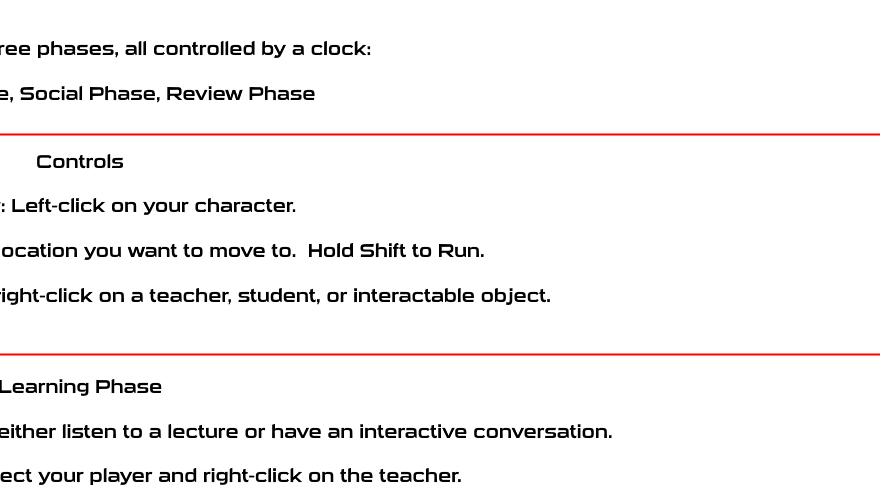
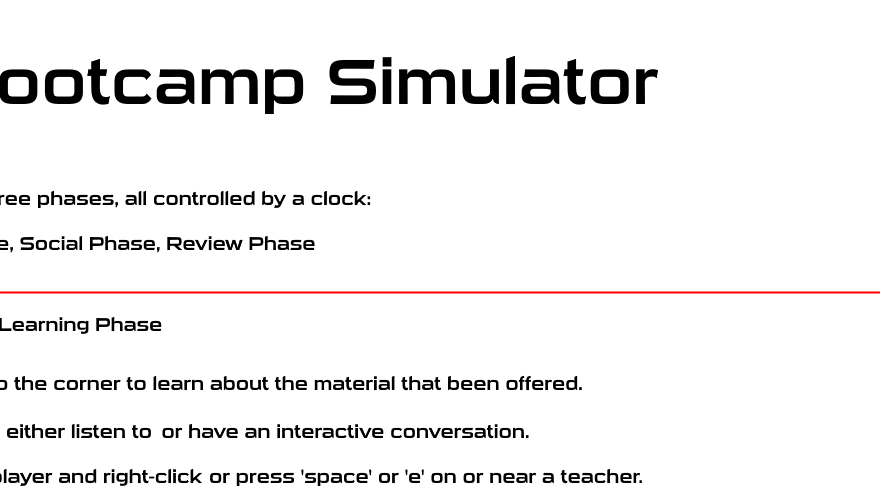
added new instructions

diff --git a/js/obstruction.js b/js/obstruction.js
@@ -7,6 +7,11 @@ var obstruction =
 			],
 		},
 		{
+			"mapObstructedTerrain":[
+
+			],
+		},
+		{
 		"mapObstructedTerrain":[
 			[0,0,16697], [52,107,268], [53,109,264], [54,111,262], [55,112,261], [56,112,125], [56,263,110], [57,112,122], [57,265,108], [58,112,121], [58,267,106], [59,112,120], [59,267,106], [60,60,43], [60,112,120], [60,267,106], [61,60,43], [61,112,120], [61,267,106], [62,60,43], [62,112,120], [62,267,106], [63,60,43], [63,112,120], [63,267,106], [64,60,43], [64,112,120], [64,267,106], [65,60,43], [65,112,120], [65,267,106], [66,60,43], [66,112,120], [66,267,106], [67,60,43], [67,112,127], [67,262,111], [68,60,43], [68,112,127], [68,262,111], [69,112,127], [69,262,111], [70,112,127], [70,262,111], [71,60,43], [71,112,127], [71,262,111], [72,60,43], [72,112,127], [72,262,111], [73,60,43], [73,112,127], [73,262,111], [74,60,43], [74,112,120], [74,262,111], [75,60,43], [75,112,120], [75,267,106], [76,60,43], [76,112,120], [76,267,106], [77,112,120], [77,267,106], [78,112,120], [78,249,6], [78,267,106], [79,112,120], [79,249,6], [79,267,106], [80,112,120], [80,249,6], [80,267,106], [81,112,127], [81,249,6], [81,267,106], [82,112,127], [82,267,106], [83,112,127], [83,267,107], [84,112,127], [84,267,109], [85,112,127], [85,267,111], [86,112,127], [86,267,153], [87,112,127], [87,267,156], [88,112,120], [88,267,158], [89,112,120], [89,267,158], [90,112,120], [90,267,158], [91,112,120], [91,265,160], [92,112,118], [92,263,162], [93,112,116], [93,261,164], [94,112,114], [94,236,186], [95,112,114], [95,234,186], [96,232,188], [97,230,190], [98,230,190], [99,230,190], [100,230,190], [101,230,190], [102,230,190], [103,156,2], [103,230,190], [104,156,2], [104,230,190], [105,230,190], [106,230,190], [107,130,4], [107,230,190], [108,130,4], [108,230,190], [109,130,4], [109,230,190], [110,130,4], [110,230,190], [111,230,190], [112,230,190], [113,230,190], [114,230,190], [115,204,2], [115,230,190], [116,163,6], [116,204,2], [116,230,190], [117,163,11], [117,230,190], [118,163,18], [118,230,190], [119,158,23], [119,230,190], [120,158,23], [120,230,190], [121,158,23], [121,230,190], [122,158,23], [122,230,190], [123,106,4], [123,158,23], [123,230,190], [124,106,4], [124,156,26], [124,230,190], [125,106,4], [125,156,26], [125,230,190], [126,106,4], [126,156,26], [126,230,190], [127,156,26], [127,224,4], [127,230,190], [128,156,6], [128,170,12], [128,224,4], [128,230,190], [129,156,6], [129,170,16], [129,224,4], [129,230,190], [130,156,6], [130,170,7], [130,182,4], [130,224,4], [130,230,190], [131,182,4], [131,230,190], [132,182,4], [132,230,190], [133,132,2], [133,230,190], [134,132,2], [134,230,190], [135,230,190], [136,230,190], [137,230,190], [138,230,190], [139,230,190], [140,230,190], [141,230,190], [142,230,190], [143,230,190], [144,230,190], [145,230,190], [146,230,190], [147,230,190], [148,230,190], [149,230,190], [150,230,190], [151,230,190], [152,230,190], [153,230,188], [154,230,174], [155,230,172], [156,230,163], [157,230,161], [158,230,159], [159,230,157], [160,230,155], [161,231,152], [162,98,127], [162,232,150], [163,96,131], [163,235,147], [164,82,147], [164,256,126], [165,80,150], [165,258,124], [166,75,155], [166,260,122], [167,75,155], [167,262,120], [168,75,155], [168,264,118], [169,75,155], [169,264,118], [170,75,155], [170,240,6], [170,264,118], [171,75,155], [171,240,6], [171,264,118], [172,75,155], [172,240,6], [172,264,118], [173,75,155], [173,240,6], [173,264,118], [174,92,138], [174,264,118], [175,94,136], [175,250,6], [175,264,118], [176,81,8], [176,96,134], [176,250,6], [176,266,116], [177,81,8], [177,98,132], [177,250,6], [177,267,115], [178,81,8], [178,98,132], [178,250,6], [178,267,115], [179,81,8], [179,98,132], [179,267,115], [180,81,8], [180,98,132], [180,235,6], [180,267,115], [181,98,132], [181,235,6], [181,267,115], [182,98,132], [182,235,6], [182,267,115], [183,98,134], [183,235,6], [183,266,116], [184,98,136], [184,264,118], [185,98,138], [185,258,125], [186,98,140], [186,256,129], [187,96,291], [188,94,295], [189,92,16228]
 		]

diff --git a/js/maps.js b/js/maps.js
@@ -31,7 +31,7 @@ var maps =
             "timer":9999999999
         },
         "buttons":[
-            {"type":"buttons", "name":"start", "x":920, "y":1030, "action":()=>{
+            {"type":"buttons", "name":"next", "x":920, "y":1030, "action":()=>{
                 renderer.clock.reset();
                 game.endLevel();
                 game.nextLevel();
@@ -50,6 +50,55 @@ var maps =
         }
         ]
     }, 
+    {
+        "name":"controls",
+        "mapImages":"images/maps/controls/",       
+        "numberOfHorizontalTiles":3,
+        "numberOfVerticalTiles":3,
+        "backgroundWidth":1920,
+        "backgroundHeight":1080,
+        "startX":0,
+        "startY":0,
+        "mapGridWidth":96,
+        "mapGridHeight":54,
+        "additional_requirements":[
+        ],
+        "items": [
+
+        ],
+        "lights" : [
+            // {"type":"lights","name":"temporary_post","x":21,"y":95,"on":true,"uid":-282},
+        ],
+        "thresholds":[
+            //{"type":"thresholds","name":"auto_door","x":117,"y":53,"direction":0,"uid":-151}
+        ],
+        // "text":[
+        //     {"type":"text", "name":"pay", "x":900, "y":100}
+        // ],
+        "clock":
+        {
+            "timer":9999999999
+        },
+        "buttons":[
+            {"type":"buttons", "name":"start", "x":920, "y":830, "action":()=>{
+                renderer.clock.reset();
+                game.endLevel();
+                game.nextLevel();
+                //economy.send();
+            }},
+        ],    
+        "triggers" : [
+        {
+            "type":"conditional",
+            "condition":() => {
+                return false;
+            },     
+            "action":() => {
+
+            } 
+        }
+        ]
+    },
     {
         "name":"university",
         "mode":"learning",
@@ -105,7 +154,7 @@ var maps =
         ],
         "clock":
         {
-            "timer":2
+            "timer":120
         },
         "triggers" : [
         {

diff --git a/js/renderer.js b/js/renderer.js
@@ -3821,8 +3821,8 @@ var renderer = {
                 {
                     economy.setPayout();
 
-                    this.payText = new PIXI.Text("Pay: ", {fill: 'white'});
-                    this.payText.text = "Pay: " + economy.cash;
+                    this.payText = new PIXI.Text("Savings: ", {fill: 'white'});
+                    this.payText.text = "Savings: " + economy.cash;
                     this.payText.position.set(
                         game.level.text[i].x,
                         game.level.text[i].y

diff --git a/js/buttons.js b/js/buttons.js
@@ -14,6 +14,12 @@ var buttons =
             frames:1,
             visible:0
         },
+        "next":
+		{
+            name:"next",
+            frames:1,
+            visible:0
+        },
         "first_survey":
 		{
             name:"first_survey",
